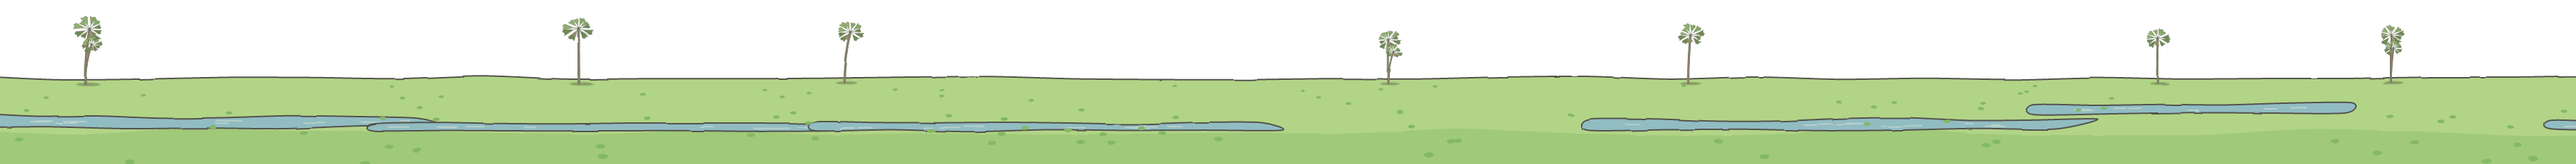
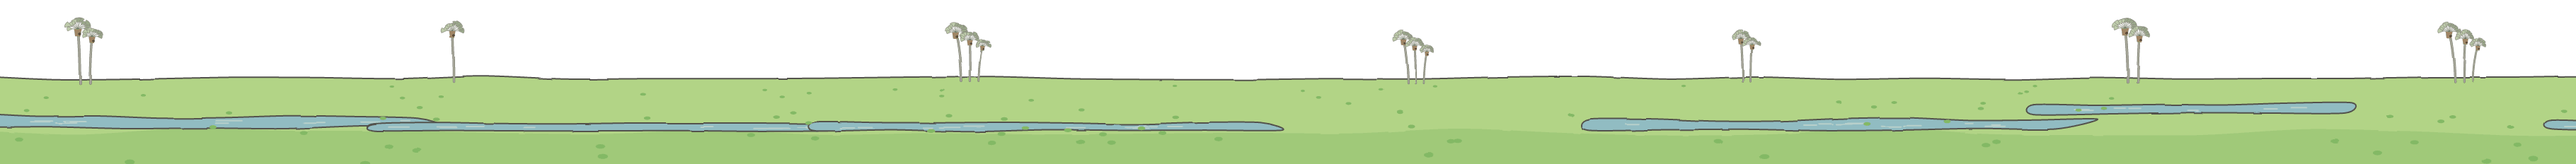
art: makalani trunk, crown and nut sheet (standard + HD twins); far makalani silhouettes in the Okavango; the painted mid palms give way to the sprites (D-056)

diff --git a/tools/art/biomes/okavango.ts b/tools/art/biomes/okavango.ts
@@ -3,7 +3,8 @@
 // beds and papyrus, a sausage tree, a hippo in the shallows, a lily pad with a reed frog, a
 // mokoro marker pole. No jacarandas (bible §2). Soft light from the upper left. D-031.
 import { bareBranch, plantLook, seedTuft } from '../flora';
-import { ilalaPalm, jackalberry, sausageTree as sausageSpecies } from '../species';
+import { jackalberry, sausageTree as sausageSpecies } from '../species';
+import { makalaniPalm } from '../makalani';
 import type { BiomeArtPlan, LayerCtx, PropCtx } from '../landscape';
 import {
   edgePts,
@@ -328,13 +329,26 @@ function farRidge(ctx: LayerCtx): string {
     const w = 240 + ctx.rnd() * 320;
     for (let k = 0; k < w / 50; k++) {
       const tx = x + k * 50 + ctx.rnd() * 20;
-      // v1.6 (D-042): ilala palms and jackalberries on the tree islands (far versions).
-      if (ctx.rnd() < 0.3) parts.push(ilalaPalm(ctx.rnd, tx, 650, 90 + ctx.rnd() * 40, ctx, 'far'));
+      // v1.6 (D-042): palms and jackalberries on the tree islands (far versions); 1.9.3
+      // (D-056): the palms are makalani silhouettes, often two or three together.
+      if (ctx.rnd() < 0.3) parts.push(farMakalani(ctx, tx, 650, 90 + ctx.rnd() * 40));
       else parts.push(jackalberry(ctx.rnd, tx, 652, 80 + ctx.rnd() * 40, ctx, 'far'));
     }
     x += w + 120 + ctx.rnd() * 300;
   }
   return g({}, ...parts);
+}
+
+/** 1.9.3 (D-056): a far makalani group: one, two or three palms leaning apart. */
+function farMakalani(ctx: LayerCtx, x: number, foot: number, h: number): string {
+  const n = 1 + Math.floor(ctx.rnd() * 3);
+  const out: string[] = [];
+  for (let k = 0; k < n; k++) {
+    const dx = (k - (n - 1) / 2) * h * 0.18;
+    const lean = (k - (n - 1) / 2) * 0.12 + (ctx.rnd() - 0.5) * 0.08;
+    out.push(makalaniPalm(ctx.rnd, x + dx, foot, h * (1 - 0.14 * k), ctx, lean));
+  }
+  return g({}, ...out);
 }
 
 function farVeld(ctx: LayerCtx): string {
@@ -365,7 +379,7 @@ function farVeld(ctx: LayerCtx): string {
     line(smoothD(band.edge, false, 0.8), ctx.pen),
   ];
   for (let x = 120; x < ctx.width; x += 300 + ctx.rnd() * 500)
-    parts.push(ilalaPalm(ctx.rnd, x, yAt(band.edge, x) + 6, 60 + ctx.rnd() * 20, ctx, 'far'));
+    parts.push(farMakalani(ctx, x, yAt(band.edge, x) + 6, 60 + ctx.rnd() * 20));
   // v1.6 (D-042): the far animals are sprites now (src/game/view/faunaHerds.ts, D-054).
   return g({}, ...parts);
 }
@@ -434,21 +448,16 @@ function mid(ctx: LayerCtx): string {
   }
   items.sort((a, b) => a.y - b.y);
   inside.push(...items.map((i) => i.svg));
-  // v1.6 (D-042): jackalberries and ilala palms on the mid plane's island edge.
+  // v1.6 (D-042): jackalberries on the mid plane's island edge. 1.9.3 (D-056): the painted
+  // palms gave way to the makalani sprites (the layouts' palm groups, MakalaniView).
   const trees: string[] = [];
-  for (const [u, h, kind] of [
-    [0.16, 270, 'jackalberry'],
-    [0.64, 235, 'palm'],
-    [0.81, 250, 'jackalberry'],
-    [0.98, 205, 'palm'],
+  for (const [u, h] of [
+    [0.16, 270],
+    [0.81, 250],
   ] as const) {
     const x = ctx.u(u);
     const foot = yAt(band.edge, x) + 34;
-    trees.push(
-      kind === 'palm'
-        ? ilalaPalm(ctx.rnd, x, foot, h, ctx, 'mid')
-        : jackalberry(ctx.rnd, x, foot, h, ctx, 'mid'),
-    );
+    trees.push(jackalberry(ctx.rnd, x, foot, h, ctx, 'mid'));
   }
   return g(
     {},

diff --git a/tools/art/makalani.ts b/tools/art/makalani.ts
@@ -81,7 +81,7 @@ export function makalaniTrunk(p: MakalaniPaint): string {
   // Faint leaf-scar rings: shallow arcs, darker below a lit lip.
   const rings: string[] = [];
   const lips: string[] = [];
-  for (let y = -14; y > -len + 30; y -= 16 + rnd() * 10) {
+  for (let y = -14; y > -len + 30; y -= 12 + rnd() * 16) {
     const w = half(y);
     const sag = 2 + rnd() * 2;
     rings.push(`M${r2(-w)} ${r2(y)}Q0 ${r2(y + sag)} ${r2(w)} ${r2(y - 1)}`);
@@ -94,8 +94,8 @@ export function makalaniTrunk(p: MakalaniPaint): string {
       d: rings.join(''),
       fill: 'none',
       stroke: p.tint(BARK.dark),
-      'stroke-width': 1.3,
-      opacity: 0.55,
+      'stroke-width': 1.1,
+      opacity: 0.3,
     }),
     el('path', {
       d: lips.join(''),
@@ -218,12 +218,13 @@ function fanLeaf(
   );
   // The fan: segments opening from the stalk's end; folded, so lit and shaded alternate.
   const dir = dry ? ang + (Math.PI / 2 - ang) * 0.8 : ang;
-  const spread = dry ? 0.9 : 1.5 + rnd() * 0.3;
-  const segs = 11;
+  const spread = dry ? 0.8 : 1.0 + rnd() * 0.25;
+  const segs = dry ? 7 : 13;
   const tips: Pt[] = [];
   for (let i = 0; i <= segs; i++) {
     const a = dir - spread / 2 + (spread * i) / segs + (rnd() - 0.5) * 0.04;
-    const rr = r * (0.82 + 0.18 * Math.sin((i / segs) * Math.PI)) * (dry ? 1.15 : 1);
+    // Stiff, pleated segments: the middle ones longest, the tips split and a little ragged.
+    const rr = r * (0.7 + 0.3 * Math.sin((i / segs) * Math.PI)) * (dry ? 1.15 : 1) * (0.94 + rnd() * 0.12);
     tips.push([ex + Math.cos(a) * rr, ey + Math.sin(a) * rr]);
   }
   // Light from the upper left: fans facing up-left are lit.
@@ -277,8 +278,8 @@ export function makalaniCrown(p: MakalaniPaint): string {
   }
   // Living fans: back ones (upward) first, then the sides, the front ones last.
   const fans: { a: number; z: number }[] = [];
-  for (let k = 0; k < 16; k++) {
-    const a = -Math.PI * (0.06 + (k / 15) * 0.88) + (rnd() - 0.5) * 0.1;
+  for (let k = 0; k < 20; k++) {
+    const a = -Math.PI * (0.04 + (k / 19) * 0.92) + (rnd() - 0.5) * 0.12;
     fans.push({ a, z: rnd() });
   }
   for (let k = 0; k < 4; k++)
@@ -286,8 +287,8 @@ export function makalaniCrown(p: MakalaniPaint): string {
   fans.sort((a, b) => a.z - b.z);
   for (const f of fans) {
     const down = Math.sin(f.a) > -0.2;
-    const stalk = down ? 48 + rnd() * 16 : 70 + rnd() * 30;
-    const r = down ? 50 + rnd() * 12 : 58 + rnd() * 16;
+    const stalk = down ? 40 + rnd() * 14 : 56 + rnd() * 24;
+    const r = down ? 40 + rnd() * 10 : 46 + rnd() * 14;
     (f.z > 1 ? front : back).push(fanLeaf(p, f.a, stalk, r, false, down ? 18 : 6));
   }
   // The dark heart where the leaf bases meet.
